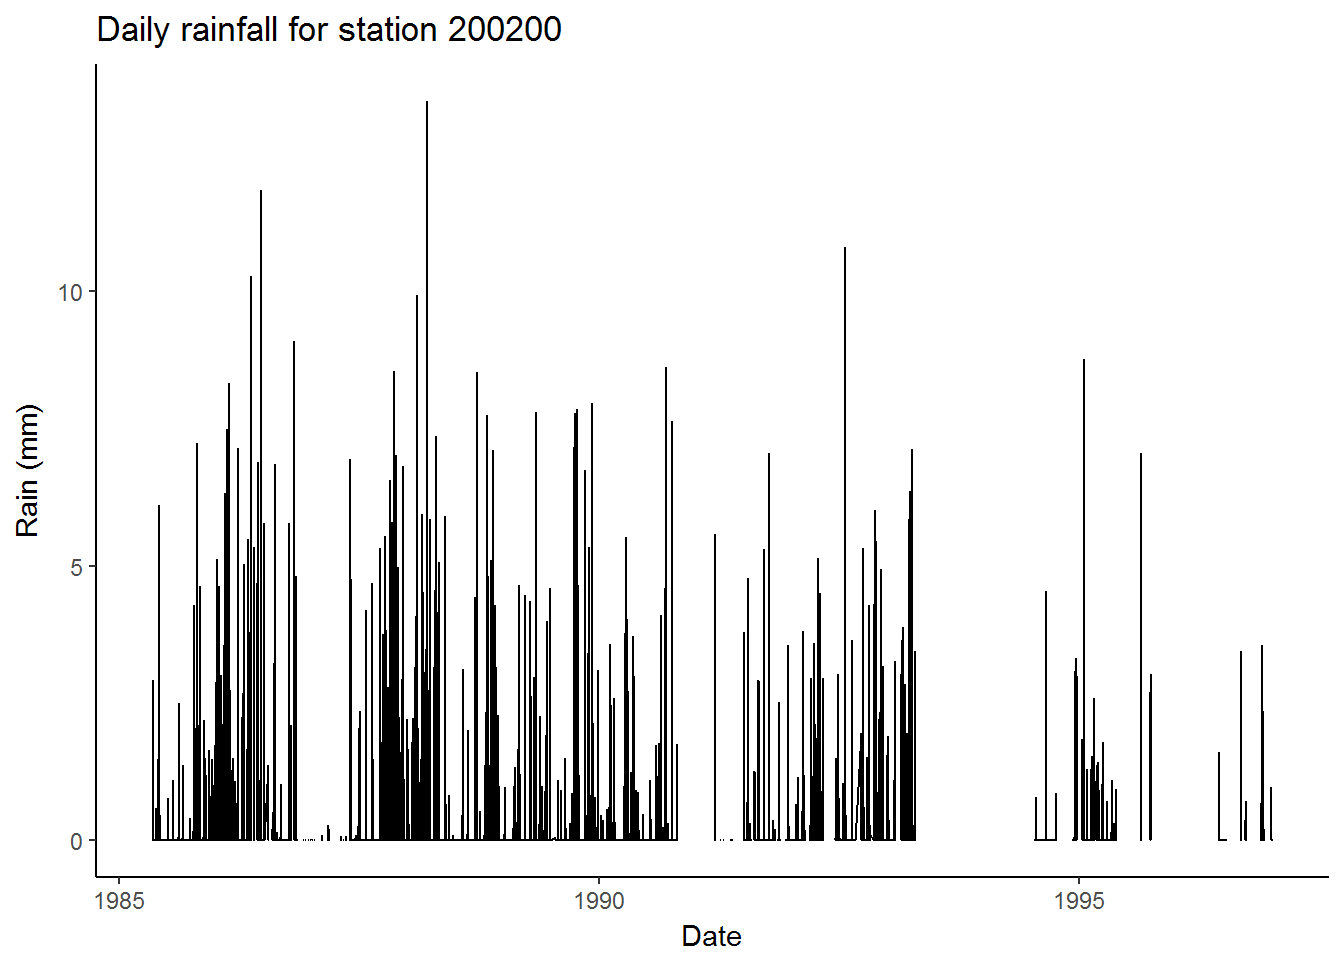
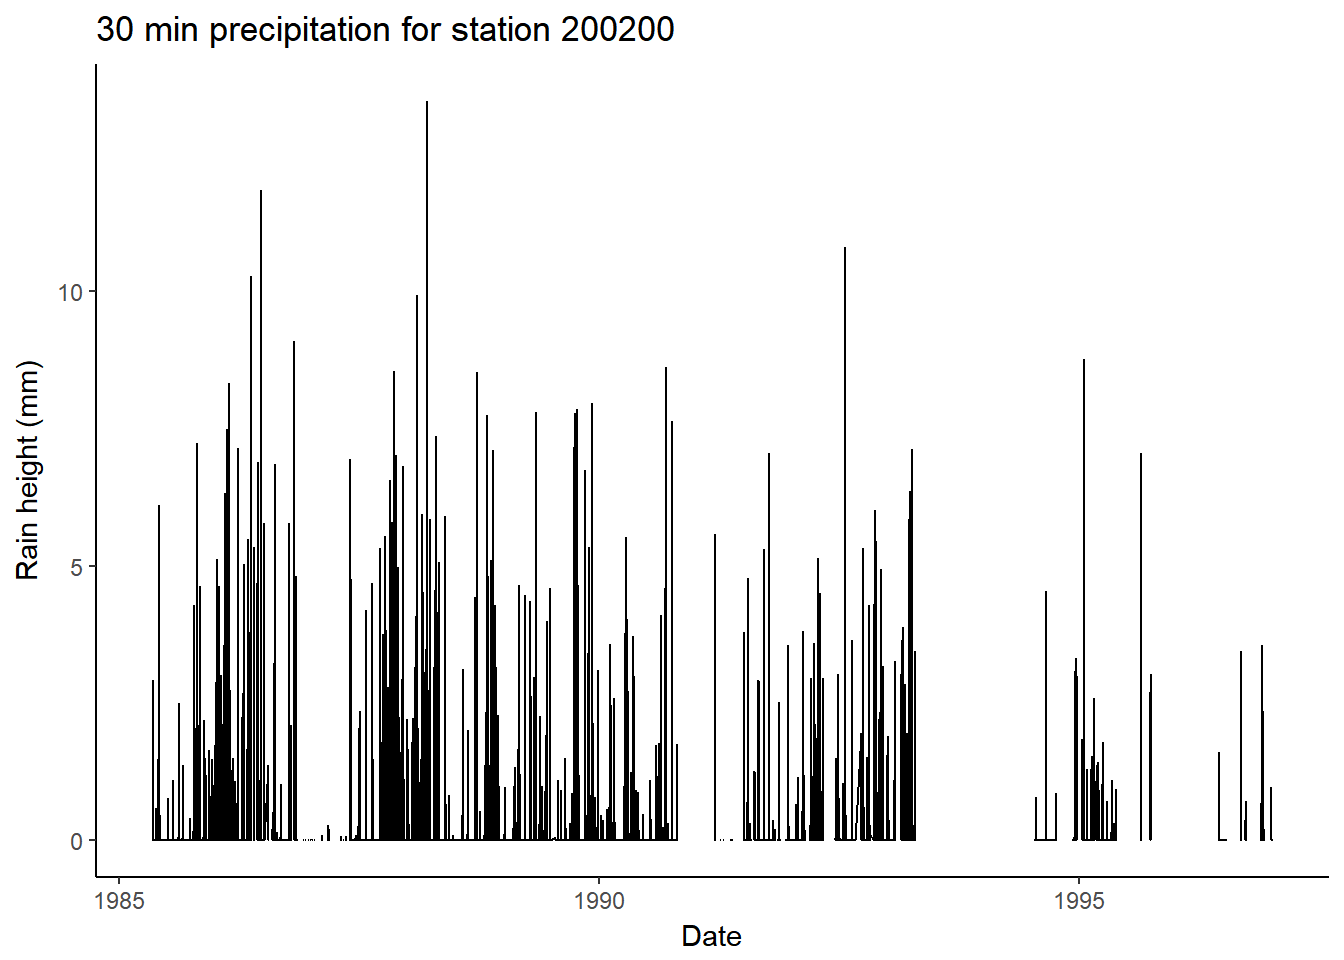
update site

Changed region(s): [[0.0625, 0.0, 0.5, 0.0625], [0.0, 0.375, 0.0312, 0.625]]

diff --git a/docs/index.html b/docs/index.html
@@ -137,7 +137,7 @@
 <p>We will use the the package’s data <code>stations</code> and <code>timeseries</code>, to reduce the time needed with data munging. We can subset the station’s data for the <code>kyy</code> subdomain with:</p>
 <div class="sourceCode" id="cb3"><pre class="sourceCode r"><code class="sourceCode r"><a class="sourceLine" id="cb3-1" data-line-number="1"><span class="kw">library</span>(hydroscoper)</a>
 <a class="sourceLine" id="cb3-2" data-line-number="2"><span class="kw">library</span>(tibble)</a>
-<a class="sourceLine" id="cb3-3" data-line-number="3"></a>
+<a class="sourceLine" id="cb3-3" data-line-number="3"><span class="kw">data</span>(<span class="st">"stations"</span>)</a>
 <a class="sourceLine" id="cb3-4" data-line-number="4">kyy_stations &lt;-<span class="st"> </span><span class="kw">subset</span>(stations, subdomain <span class="op">==</span><span class="st"> "kyy"</span>)</a>
 <a class="sourceLine" id="cb3-5" data-line-number="5"><span class="kw">as_tibble</span>(kyy_stations)</a>
 <a class="sourceLine" id="cb3-6" data-line-number="6"><span class="co">#&gt; # A tibble: 425 x 9</span></a>
@@ -185,8 +185,8 @@
 <div class="sourceCode" id="cb6"><pre class="sourceCode r"><code class="sourceCode r"><a class="sourceLine" id="cb6-1" data-line-number="1"><span class="kw">library</span>(ggplot2)</a>
 <a class="sourceLine" id="cb6-2" data-line-number="2"><span class="kw">ggplot</span>(<span class="dt">data =</span> ts_raw, <span class="kw">aes</span>(<span class="dt">x =</span> Date, <span class="dt">y =</span> Value))<span class="op">+</span></a>
 <a class="sourceLine" id="cb6-3" data-line-number="3"><span class="st">  </span><span class="kw">geom_line</span>()<span class="op">+</span></a>
-<a class="sourceLine" id="cb6-4" data-line-number="4"><span class="st">  </span><span class="kw">labs</span>(<span class="dt">title=</span><span class="st">"Daily rainfall for station 200200"</span>,</a>
-<a class="sourceLine" id="cb6-5" data-line-number="5">       <span class="dt">x=</span><span class="st">"Date"</span>, <span class="dt">y =</span> <span class="st">"Rain (mm)"</span>)<span class="op">+</span></a>
+<a class="sourceLine" id="cb6-4" data-line-number="4"><span class="st">  </span><span class="kw">labs</span>(<span class="dt">title=</span> <span class="st">"30 min precipitation for station 200200"</span>,</a>
+<a class="sourceLine" id="cb6-5" data-line-number="5">       <span class="dt">x=</span><span class="st">"Date"</span>, <span class="dt">y =</span> <span class="st">"Rain height (mm)"</span>)<span class="op">+</span></a>
 <a class="sourceLine" id="cb6-6" data-line-number="6"><span class="st">  </span><span class="kw">theme_classic</span>()</a></code></pre></div>
 <p><img src="reference/figures/README-plot_time_series-1.png" width="672"></p>
 </section><section id="meta" class="level2"><h2>Meta</h2>
@@ -244,6 +244,7 @@ https://github.com/kvantas/hydroscoper</code></pre>
 <li><a href="https://cran.r-project.org/"><img src="https://img.shields.io/badge/R%3E%3D-3.4.0-6666ff.svg" alt="minimal R version"></a></li>
 <li><a href="https://cran.r-project.org/package=hydroscoper"><img src="http://www.r-pkg.org/badges/version/hydroscoper" alt="CRAN_Status_Badge"></a></li>
 <li><a href="commits/master"><img src="https://img.shields.io/badge/Package%20version-0.1.0.9000-orange.svg?style=flat-square" alt="packageversion"></a></li>
+<li><a href="http://www.rdocumentation.org/packages/hydroscoper"><img src="http://www.rdocumentation.org/badges/version/hydroscoper" alt="Rdoc"></a></li>
 <li><a href="https://zenodo.org/badge/latestdoi/114094911"><img src="https://zenodo.org/badge/114094911.svg" alt="DOI"></a></li>
 </ul>
 </div>

diff --git a/docs/articles/kyy_data.html b/docs/articles/kyy_data.html
@@ -75,7 +75,7 @@
       <h1>Using hydroscoper to get stations’ and time-series’ data</h1>
                         <h4 class="author">Konstantinos Vantas</h4>
             
-            <h4 class="date">2018-01-05</h4>
+            <h4 class="date">2018-01-06</h4>
           </div>
 
     

diff --git a/README.md b/README.md
@@ -112,7 +112,7 @@ data for the `kyy` subdomain with:
 ``` r
 library(hydroscoper)
 library(tibble)
-
+data("stations")
 kyy_stations <- subset(stations, subdomain == "kyy")
 as_tibble(kyy_stations)
 #> # A tibble: 425 x 9
